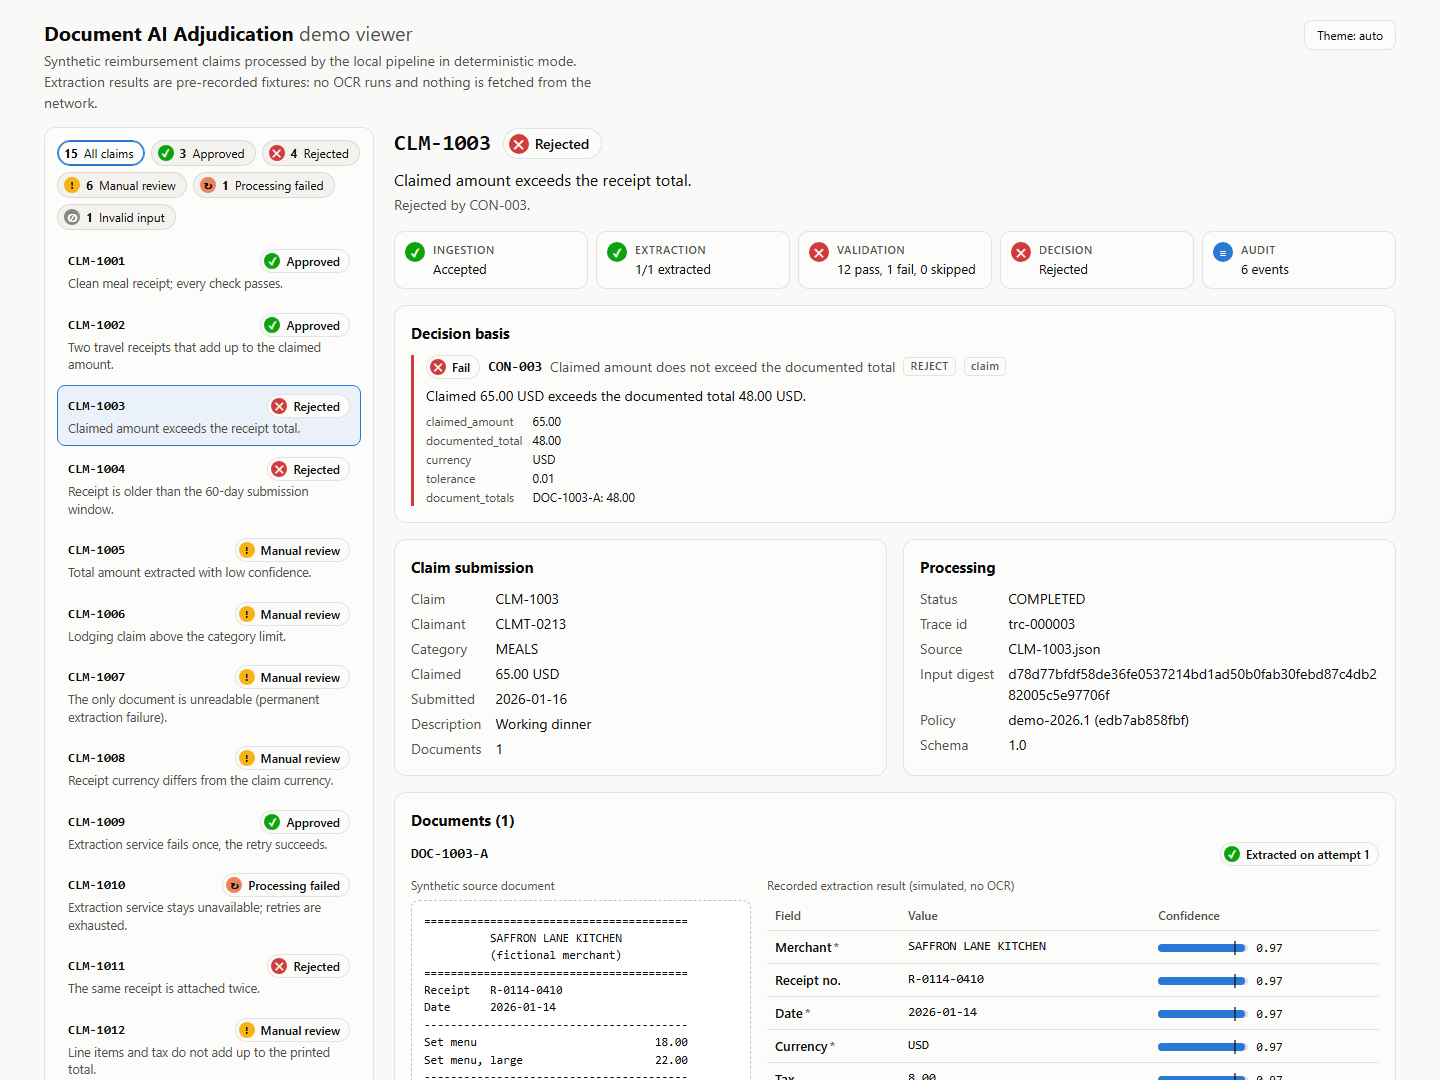
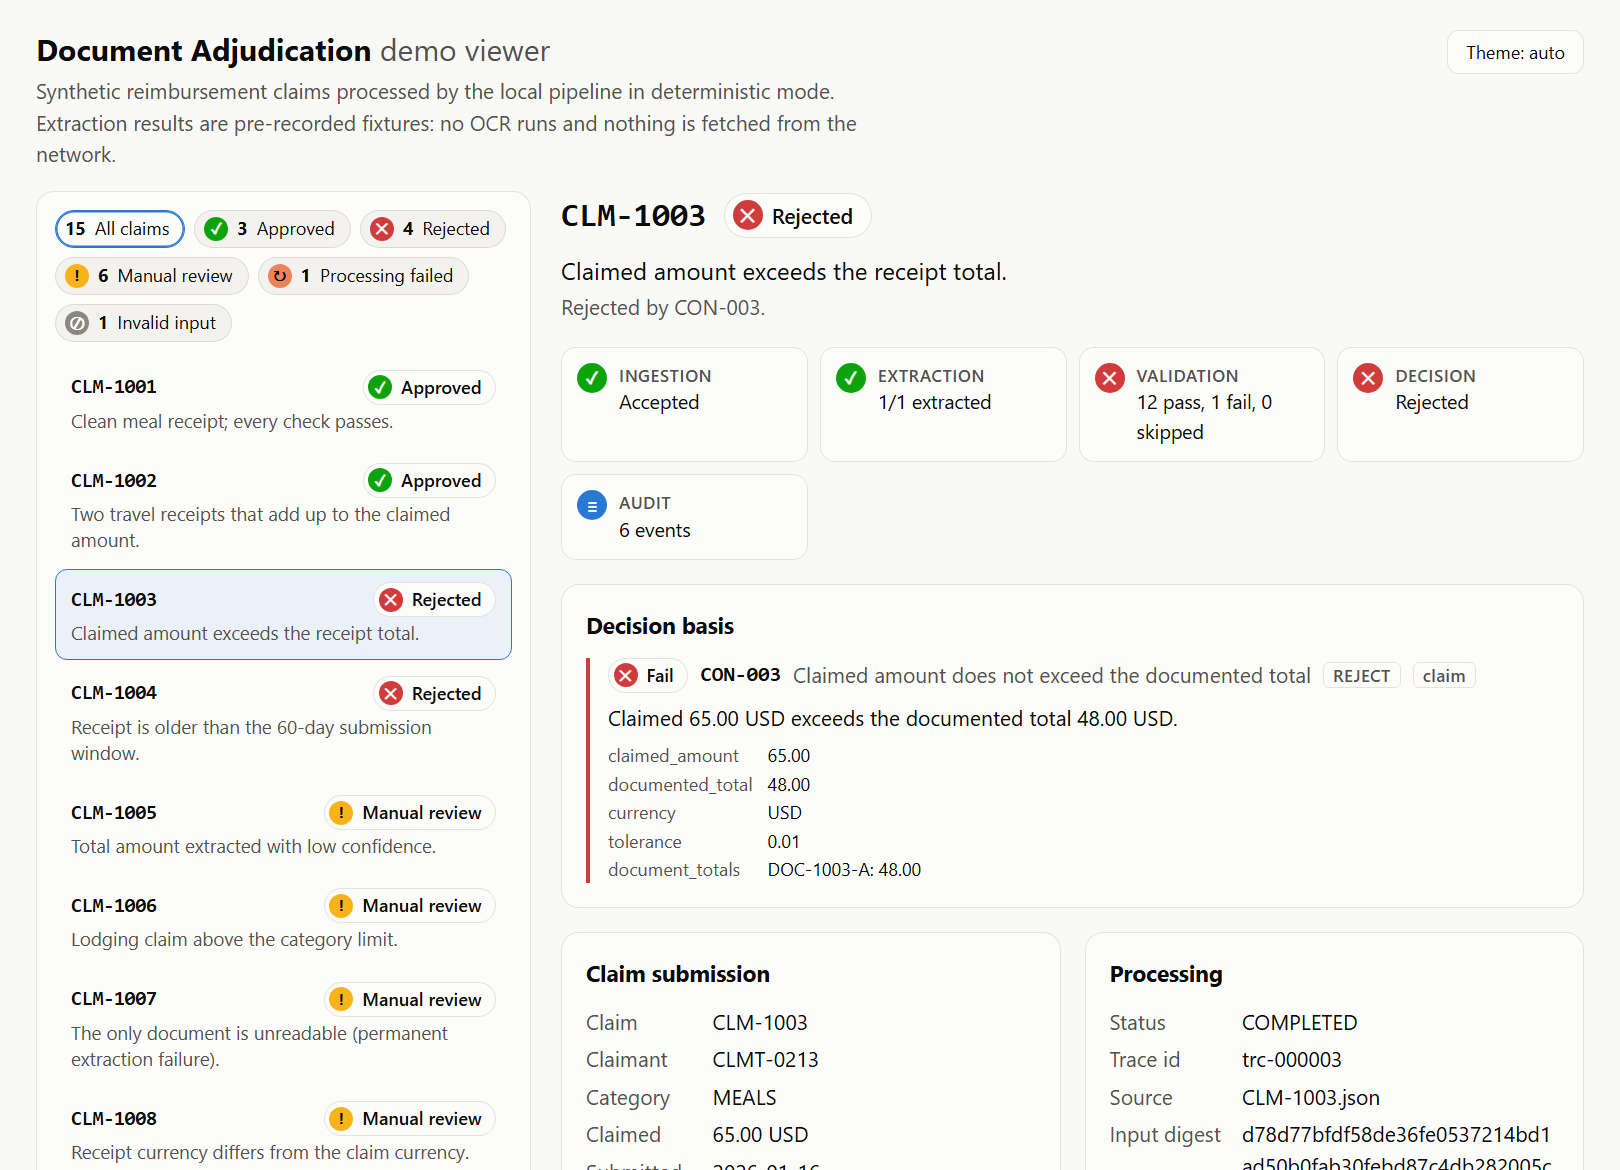
docs: clarify document adjudication identity and presentation
- Rename the project to Document Adjudication Pipeline (repository and
  distribution name document-adjudication-pipeline). The Python package and
  the `adjudication` CLI are unchanged.
- New first screen: stack line, quick-start link and a demo-scope note; no
  OCR, machine-learning model or cloud service runs.
- Regenerate the demo viewer screenshot with the new title.
- Uniform AI-assisted development note.

diff --git a/demo/index.html b/demo/index.html
@@ -4,13 +4,13 @@
   <meta charset="utf-8">
   <meta name="viewport" content="width=device-width, initial-scale=1">
   <title>Adjudication Demo Viewer</title>
-  <meta name="description" content="Static viewer for the synthetic results of the document AI adjudication pipeline.">
+  <meta name="description" content="Static viewer for the synthetic results of the document adjudication pipeline.">
   <link rel="stylesheet" href="styles.css">
 </head>
 <body>
   <header class="topbar">
     <div class="brand">
-      <h1>Document AI Adjudication <span class="brand-sub">demo viewer</span></h1>
+      <h1>Document Adjudication <span class="brand-sub">demo viewer</span></h1>
       <p class="subtitle">Synthetic reimbursement claims processed by the local pipeline in deterministic mode.
         Extraction results are pre-recorded fixtures: no OCR runs and nothing is fetched from the network.</p>
     </div>

diff --git a/adjudication/__init__.py b/adjudication/__init__.py
@@ -1,4 +1,4 @@
-"""Document AI adjudication pipeline (demonstration).
+"""Document adjudication pipeline (demonstration).
 
 Synthetic document -> extraction -> validation -> decision -> audit trace.
 """

diff --git a/README.md b/README.md
@@ -1,4 +1,4 @@
-# Document AI Adjudication Pipeline
+# Document Adjudication Pipeline
 
 **Turn documents into explained, auditable decisions.** A compact, fully offline reference implementation of a
 document-processing decision pipeline:
@@ -12,9 +12,14 @@ library, no credentials, no network.
 
 ![Demo viewer: a rejected claim with its pipeline stages, decision basis and evidence](docs/images/demo-viewer.png)
 
+**Stack:** Python 3.11+ standard library only · ports and adapters · `unittest` · static HTML viewer · GitHub
+Actions (Ubuntu and Windows, Python 3.11 and 3.12). **Try it:** [Quick start](#quick-start) or open
+`demo/index.html` offline.
+
 > **Independent demonstration.** Original code based on general, publicly known software patterns. It contains no
 > code, data, business rules, configuration or identifiers from any employer or client system. Every merchant,
-> identifier, amount and document is synthetic. It has never been deployed and makes no production claims.
+> identifier, amount and document is synthetic. No OCR, machine-learning model or cloud service runs here. It has
+> never been deployed and makes no production claims.
 
 ## The problem
 
@@ -97,7 +102,7 @@ Requirements: Python 3.11 or newer. Run from the repository root.
 
 ```bash
 git clone <repository-url>
-cd document-ai-adjudication-pipeline
+cd document-adjudication-pipeline
 
 python -m adjudication rules                                          # the 14 rules
 python -m adjudication process samples/claims/CLM-1003.json --verbose # one claim, every rule result
@@ -218,10 +223,13 @@ manual-review cases, and sealed evaluation datasets. Full list: [limitations and
 
 ## AI-assisted development
 
-Built with AI assistance: the code, tests, data generators and documentation were drafted with Claude Code
-(Anthropic) under the author's direction. The author defined scope, constraints and acceptance criteria and is
-responsible for reviewing and approving every change before publication. Test results and command outputs shown
-here come from actual local runs.
+I designed and directed this project; it was implemented with substantial help from Claude Code (Anthropic). I
+defined the problem, scope, constraints and acceptance criteria, reviewed the design and the results, and decided
+what to publish. Most of the code, tests and documentation were generated with the assistant under that direction,
+which is why the commits carry a `Co-Authored-By` trailer. Results quoted here come from the automated tests,
+evaluations and CI runs in this repository, on synthetic data. They show that the code behaves as described under
+those conditions, not that it is ready for production, and nothing this README marks as simulated, planned or not
+tested has been validated.
 
 ---
 
